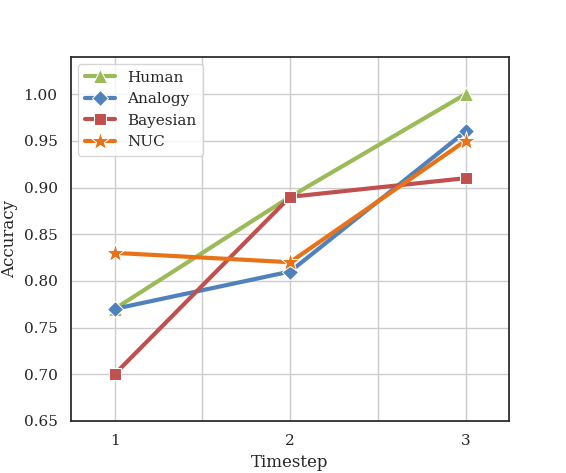
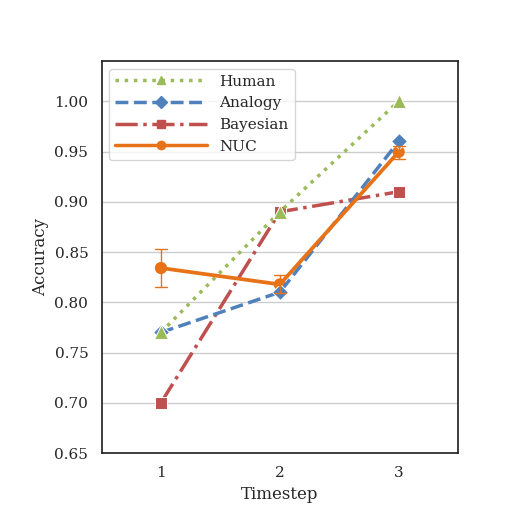
Further analysis

diff --git a/staghunt/analysis/actionPred.py b/staghunt/analysis/actionPred.py
@@ -1,7 +1,8 @@
 import pandas as pd
 import numpy as np
+import configparser
 
-def rawAccuracy():
+def rawAccuracy1to2():
     t1data = pd.read_csv('../log/OVERNIGHT_1_actionpred1-20201028-005016.csv')
     # Extract pred/true actions for timestep 2
     t1data['pred_t2'] = t1data['pred_actions'].apply(lambda x: str(x)[0])
@@ -10,14 +11,120 @@ def rawAccuracy():
     totalCorrect = np.sum(t1data['correct_pred'])
     totalPreds = t1data.shape[0]
     accuracy = totalCorrect/totalPreds
-    print('Timestep 1 raw accuracy: {:.2%}'.format(accuracy) +
+    print('Timestep 1 raw accuracy for timestep 2: {:.2%}'.format(accuracy) +
         (' (Baseline: {:.2%})'.format(1.0/5.0)))
+    return
 
+def rawAccuracy1to3():
+    t1data = pd.read_csv('../log/OVERNIGHT_1_actionpred1-20201028-005016.csv')
+    # Extract pred/true actions for timestep 2
+    t1data['pred_t2'] = t1data['pred_actions'].apply(lambda x: str(x)[1])
+    t1data['true_t2'] = t1data['true_actions'].apply(lambda x: str(x)[-1])
+    t1data['correct_pred'] = t1data.apply(lambda x: 1 if x['pred_t2'] == x['true_t2'] else 0, axis=1)
+    totalCorrect = np.sum(t1data['correct_pred'])
+    totalPreds = t1data.shape[0]
+    accuracy = totalCorrect/totalPreds
+    print('Timestep 1 raw accuracy for timestep 3: {:.2%}'.format(accuracy) +
+        (' (Baseline: {:.2%})'.format(1.0/5.0)))
     return
 
 
+def rawAccuracy2to3():
+    t2data = pd.read_csv('../log/OVERNIGHT_2_actionpred2-20201028-233553.csv')
+    # Extract pred/true actions for timestep 2
+    t2data['pred_t3'] = t2data['pred_actions'].apply(lambda x: str(x)[0])
+    t2data['true_t3'] = t2data['true_actions'].apply(lambda x: str(x)[-1])
+    t2data['correct_pred'] = t2data.apply(lambda x: 1 if x['pred_t3'] == x['true_t3'] else 0, axis=1)
+    totalCorrect = np.sum(t2data['correct_pred'])
+    totalPreds = t2data.shape[0]
+    accuracy = totalCorrect/totalPreds
+    print('Timestep 2 raw accuracy for timestep 3: {:.2%}'.format(accuracy) +
+        (' (Baseline: {:.2%})'.format(1.0/5.0)))
+    return
+
+
+def cellNumToCoords(num):
+    return (int(np.floor(num / 7)), (num % 7))
+
+# gameMap has location of each agent stored as a cell number
+# gameMap['A'] = 34
+# gameMap['B'] = 12
+# etc.
+def getPos(agent, gameMap):
+    return cellNumToCoords(gameMap[agent])
+
+def getNextPos(agent, action, gameMap):
+    (row,col) = getPos(agent, gameMap)
+    if action == 'L':
+        return (row, col-1)
+    elif action == 'R':
+        return (row, col+1)
+    elif action == 'U':
+        return (row-1, col)
+    elif action == 'D':
+        return (row+1, col)
+    else:
+        return (row, col)
+
+def getDistance(pos1, pos2):
+    return np.abs(pos2[0] - pos1[0]) + np.abs(pos2[1] - pos1[1])
+
+# Three states:
+#   T - Move   [T]owards
+#   A - Move   [A]way
+#   S - Remain [S]tationary
+def getRelativeAction(agent, otherAgent, action, gameMap):
+    agentCurPos   = getPos(agent, gameMap)
+    agentNextPos  = getNextPos(agent, action, gameMap)
+    otherAgentPos = getPos(otherAgent, gameMap)
+    origDistance  = getDistance(agentCurPos, otherAgentPos)
+    newDistance   = getDistance(agentNextPos, otherAgentPos)
+    if newDistance < origDistance:
+        return 'T'
+    elif newDistance == origDistance:
+        return 'S'
+    else:
+        return 'A'
+
+def getRelativeActions(agent, otherAgent, actionSeq, gameMap):
+    return ''.join([getRelativeAction(agent, otherAgent, actionSeq, gameMap) for a in actionSeq])
+
+
+def getStates(gameMap):
+    states = {}
+    config = configparser.ConfigParser()
+    config.read('../{}_PlayerA.ini'.format(gameMap))
+    states['A'] = int(config.get('MapParameters', 'StartingPoint'))
+    config.read('../{}_PlayerB.ini'.format(gameMap))
+    states['B'] = int(config.get('MapParameters', 'StartingPoint'))
+    config.read('../{}_PlayerC.ini'.format(gameMap))
+    states['C'] = int(config.get('MapParameters', 'StartingPoint'))
+    return states
+
+def test():
+    gameMap = 'StagHunt_a'
+    states  = getStates(gameMap)
+    print(getRelativeAction('A','B','R', states))
+    return
+
+def triStateAccuracy():
+    # Timestep 1 to timestep 2
+    # Get data
+    # Create new columns:
+        # true_relative_A
+        # true_relative_B
+        # true_relative_C
+        # true_relative_S1
+        # true_relative_S2
+    # Compare accuracy
+    return
+
 def main():
-    rawAccuracy()
+    rawAccuracy1to2()
+    rawAccuracy1to3()
+    rawAccuracy2to3()
+    triStateAccuracy()
 
 if __name__ == '__main__':
-    main()
+    #main()
+    test()

diff --git a/staghunt/plots/cooperationAccuracy.py b/staghunt/plots/cooperationAccuracy.py
@@ -39,16 +39,17 @@ data = pd.DataFrame({
 
 
 plt.grid(True)
-g = sns.lineplot(x=data['Timestep'], y=data['Human'], color=color_Human,linewidth=2.5,marker='^',markersize=10,label='Human')
-g = sns.lineplot(x=data['Timestep'], y=data['Analogy'], color=color_Analogy,linewidth=2.5,marker='D', markersize=8,label='Analogy')
-g = sns.lineplot(x=data['Timestep'], y=data['Bayesian'], color=color_Bayesian,linewidth=2.5,marker='s',markersize=8,label='Bayesian')
+g = sns.lineplot(x=data['Timestep'], y=data['Bayesian'], color=color_Bayesian,linewidth=2.5,marker='s',markersize=8,label='Bayesian',linestyle='-.')
+g = sns.lineplot(x=data['Timestep'], y=data['Analogy'], color=color_Analogy,linewidth=2.5,marker='D', markersize=8,label='Analogy', linestyle='--')
+g = sns.lineplot(x=data['Timestep'], y=data['Human'], color=color_Human,linewidth=2.5,marker='^',markersize=10,label='Human', linestyle=':')
 g = sns.pointplot(x='Timestep',y='Accuracy',data=nuc, color=color_NUC, linewidth=2.5, label='NUC', dodge=True, errwidth=1, capsize=0.1)
 g.set(ylim = (0.65, 1.04))
-custom_lines = [Line2D([0],[0], color=color_Human,lw=2.5,marker='^'),
-                Line2D([0],[0], color=color_Analogy,lw=2.5,marker='D'),
-                Line2D([0],[0], color=color_Bayesian,lw=2.5,marker='s'),
+
+custom_lines = [Line2D([0],[0], color=color_Human,lw=2.5,marker='^', linestyle=':'),
+                Line2D([0],[0], color=color_Analogy,lw=2.5,marker='D',linestyle='dashed'),
+                Line2D([0],[0], color=color_Bayesian,lw=2.5,marker='s',linestyle='-.'),
                 Line2D([0],[0], color=color_NUC,lw=2.5,marker='o')]
-g.legend(custom_lines, ['Human','Analogy','Bayesian','NUC'])
+g.legend(custom_lines, ['Human','Analogy','Bayesian','NUC'], handlelength=6)
 plt.ylabel('Accuracy')
 plt.xlabel('Timestep')
 plt.show()
